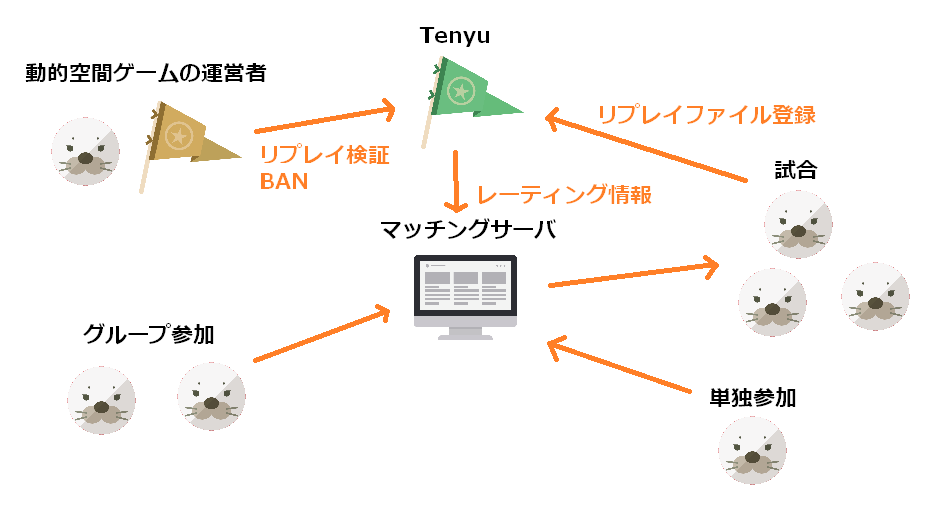
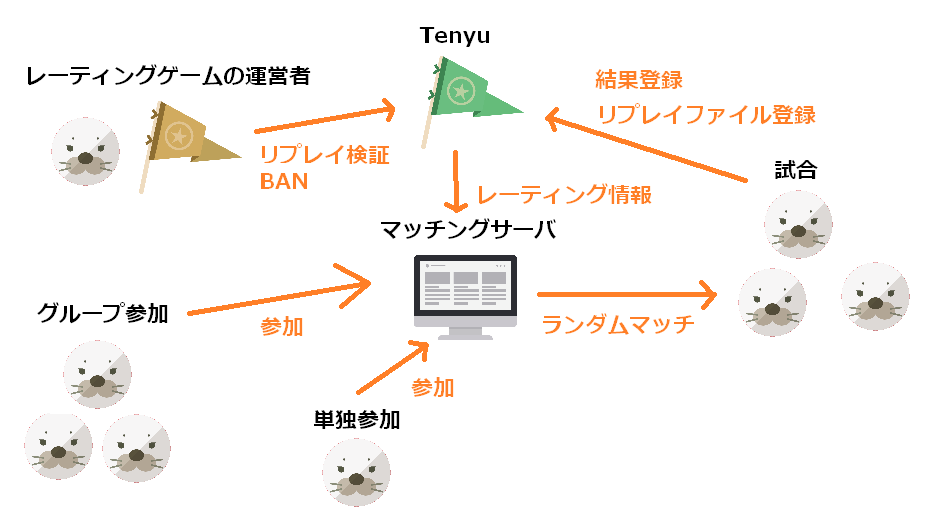
説明入れ替え

diff --git a/README.md b/README.md
@@ -1186,10 +1186,17 @@ P2Pネットワークに記録される情報とプレイヤーのPCに保存さ
 Tenyuに登録されないアイテムもありえます。例えば[常駐空間ゲーム](#常駐空間ゲーム)がその空間内のみで使用するアイテム、[レーティングゲーム](#レーティングゲーム)が1試合の中でのみ使用するアイテム。そのようなアイテムは各ゲームが自由に仕様を策定できます。
 
 ## マッチングサーバ
+![Alt text](readmeImg/Matching.png)  
+
 **Tenyuは全ての[レーティングゲーム](#レーティングゲーム)に共通のマッチングシステムを提供します。**  
 [レーティングゲーム](#レーティングゲーム)では試合が開催されますが、そのマッチングをする必要があります。
 [全体運営者](#全体運営者)が指定したノードがマッチングサーバを担います。マッチングサーバはタイムゾーン毎に設定されます。
 
+マッチングサーバはレーティングに応じたランダムマッチを提供します。マッチングでは味方を選ぶ事は可能ですが敵を選ぶ事はできません。  
+
+ゲームクライアントはTenyu基盤ソフトウェアと通信してマッチング情報や参加プレイヤーに関する情報等を取得できます。
+試合への復帰は可能ですが、マッチング時点で参加者に含められて居なかったプレイヤーの途中参加は不可能です。  
+  
 ## レーティング計算
 **Tenyuは全ての[レーティングゲーム](#レーティングゲーム)に共通のレーティング計算を提供します。**  
 
@@ -1197,12 +1204,6 @@ SMEという計算方法があります。
 http://www.tckerrigan.com/Misc/Multiplayer_Elo/  
 TenyuではSMEを拡張した計算方法を用います。その方法はほとんどあらゆる試合形式のゲームに適用できる汎用的なものです。
 ユーザーは各ゲームタイトル毎にレーティングを持ちます。チームメンバーの平均レーティングがそのチームのレーティングになります。チームのスコアのランキングでSMEが計算されます。SMEに提出するスコアは各ゲームが独自に算出します。例えばスコアという概念が無く勝ち負けしかないなら、勝者にスコア１、敗者にスコア０を指定します。試合参加者は各チームのランキングを報告します。チームのレーティング変動量がSMEで計算され、各チームメンバーのレーティングは全員その変動量だけ変動します。**この方式はほぼ全ての試合形式のゲームに適用できると考えています**。  
-マッチングサーバはレーティングに応じたランダムマッチを提供しますが、本当にランダムにマッチングされているかは全マッチング情報が全ノードに公開されるので検証可能です。マッチングでは味方を選ぶ事は可能ですが敵を選ぶ事はできません。  
-
-ゲームクライアントはTenyuと通信してマッチング情報や参加プレイヤーに関する情報等を取得できます。
-試合への復帰は可能ですが、マッチング時点で参加者に含められて居なかったプレイヤーの途中参加は不可能です。  
-  
-![Alt text](readmeImg/Matching.png)  
 
 ## ユーザー認証
 TenyuはlocalhostのプログラムにWebAPIを提供します。P2Pネットワークで共有されている全情報を取得できます。例えば登録された素材のファイルパス、特定のユーザーの現在のIPアドレスとポート等です。
